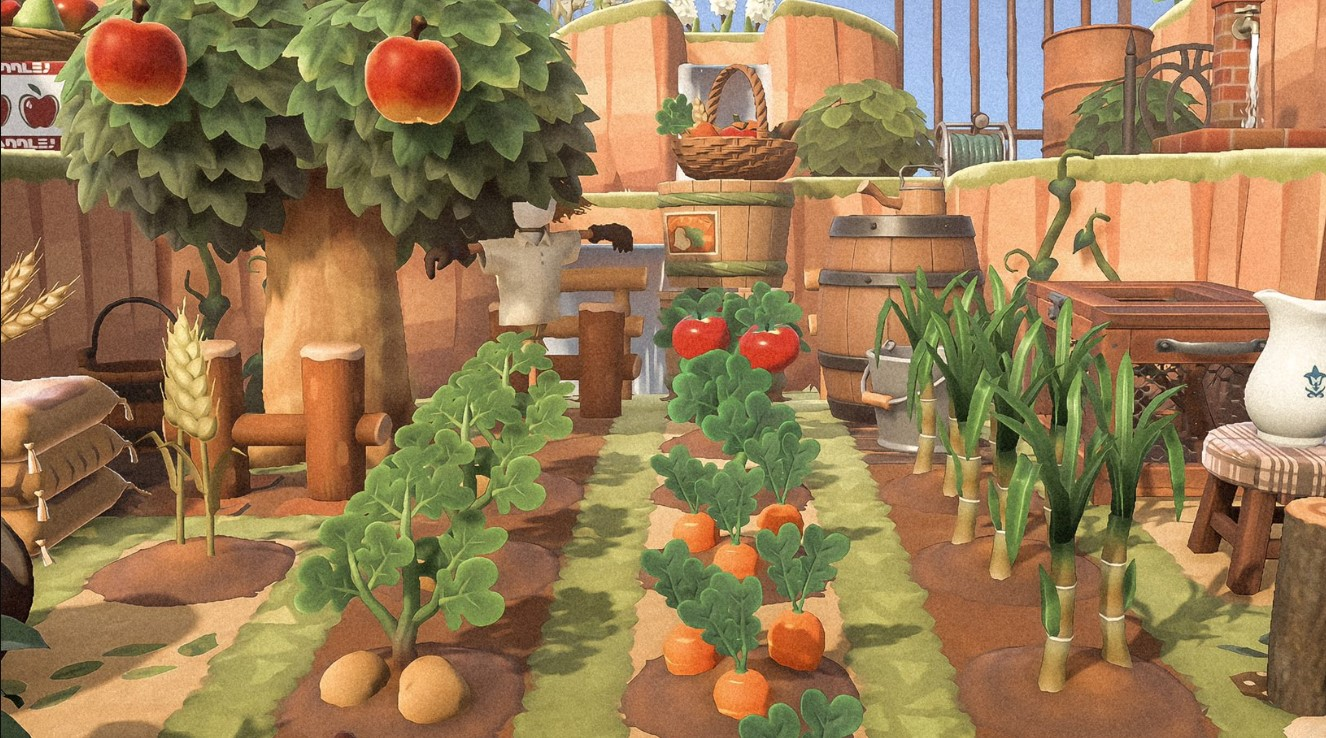
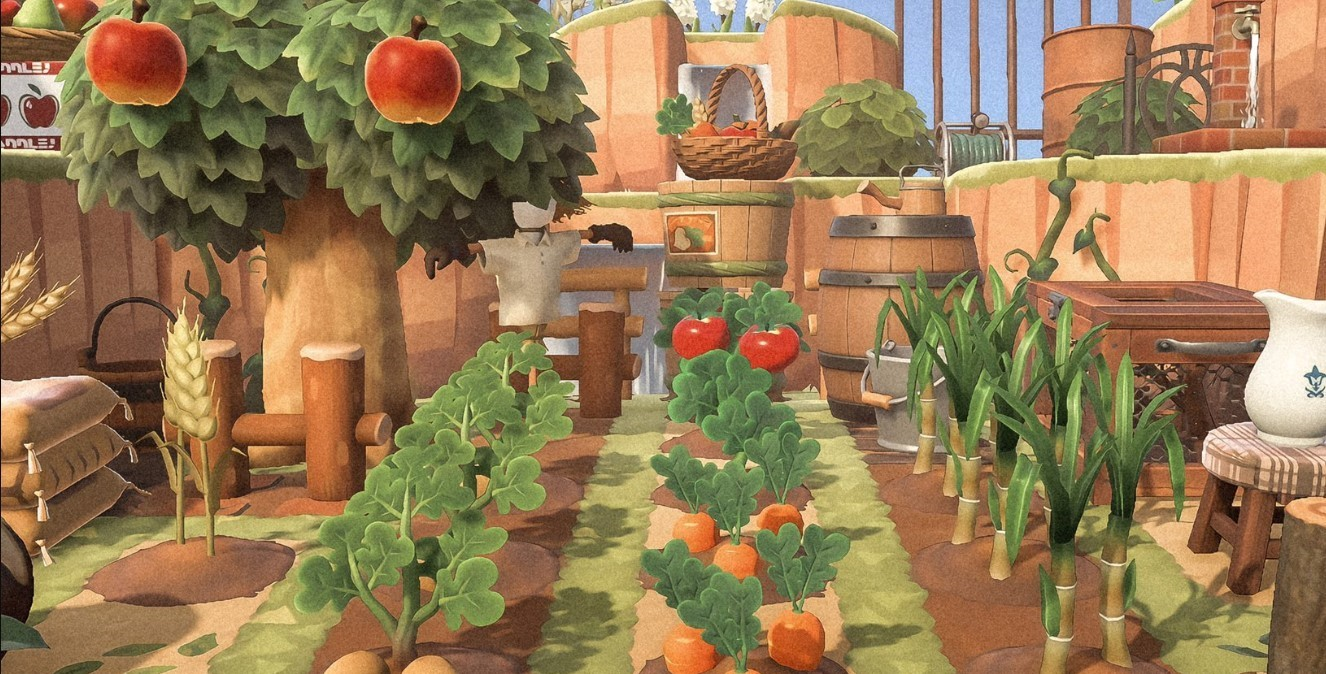
weather, bgimgcolor

diff --git a/js/weather.js b/js/weather.js
@@ -1,0 +1,20 @@
+const API_KEY="79acdef3e2ce64d7194ffbb7612c9db8"
+
+function onGeoOk(position){
+const lat=position.coords.latitude;
+const lon=position.coords.longitude;
+const url=`https://api.openweathermap.org/data/2.5/weather?lat=${lat}&lon=${lon}&appid=${API_KEY}&units=metric`
+
+fetch(url).then(response => response.json()).then((data)=>{
+     const weather =document.querySelector("#weather span:first-child");
+     const city =document.querySelector("#weather span:last-child");
+
+    city.innerText=data.name;
+     weather.innerText = `${data.weather[0].main} ${data.main.temp}℃`;
+});
+
+}
+function onGeoError(){
+alert("위치를 찾을 수 없습니다.")
+}
+navigator.geolocation.getCurrentPosition(onGeoOk,onGeoError);

diff --git a/index.html b/index.html
@@ -27,11 +27,16 @@
       <span></span>
       <span></span>
     </div>
+    <div id="weather">
+      <span></span>
+      <span></span>
+    </div>
     <script src="js/greetings.js"></script>
     <script src="js/clock.js"></script>
     <script src="js/quotes.js"></script>
     <script src="js/background.js"></script>
     <script src="js/todo.js"></script>
+    <script src="js/weather.js"></script>
 
     <!-- 아 폰트도 적용하고! 그리고 required 일때 디자인... -->
   </body>

diff --git a/css/style.css b/css/style.css
@@ -11,7 +11,7 @@
 .hidden{
      display:none;
 }
-
+body{ background-color: rgb(56, 56, 56);}
 img{
      position:absolute;
      width: 100%;
@@ -20,5 +20,5 @@ img{
      top:0px;
      right:0px;
      z-index: -1;
-     opacity:80%;
+     opacity:45%;
 }
